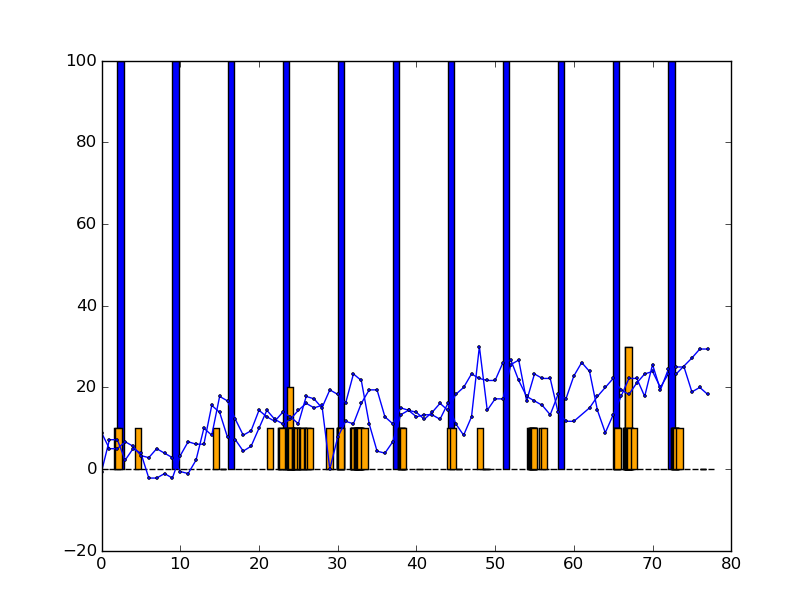
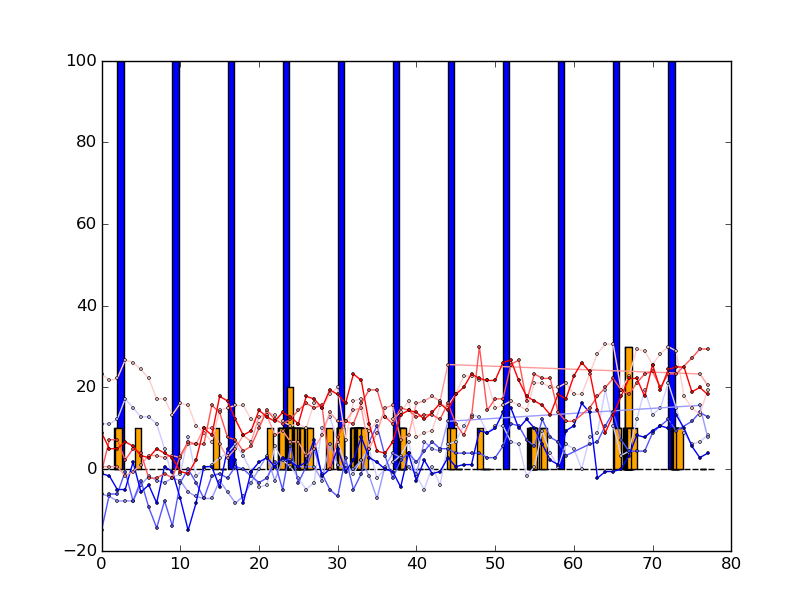
added support for daily Min temp; added min-temp line plots

Changed region(s): [[0.1232, 0.5588, 0.8929, 0.8693], [0.1232, 0.5899, 0.1847, 0.6209]]

diff --git a/rain_forcast.py b/rain_forcast.py
@@ -296,28 +296,51 @@ if __name__ == "__main__":
     ind = np.arange(len(x_dates)) #select N evenly spaced values
     add_bars( ind, saturdays_2016, outline=True, color='black')
 
-    list_tmax = [{'date_start': parse('2012-mar-17')
+    # plot lines for daily climate values
+    list_daily_lines = [{'date_start': parse('2012-mar-17')
                  ,'date_xend' : parse('2012-june-2')
-                 ,'str_datatype': 'TMAX_C'
+                 ,'str_datatype': 'TMIN_C'
                  ,'color'     : "#ccccff" #very faded blue
                  }
                 ,{'date_start': parse('2013-mar-17')
                  ,'date_xend' : parse('2013-june-2')
-                 ,'str_datatype': 'TMAX_C'
+                 ,'str_datatype': 'TMIN_C'
                  ,'color'     : "#9999ff" #faded blue
                  }
                 ,{'date_start': parse('2014-mar-17')
                  ,'date_xend' : parse('2014-june-2')
-                 ,'str_datatype': 'TMAX_C'
+                 ,'str_datatype': 'TMIN_C'
                  ,'color'     : "#5555ff" #only slightly faded
                  }
                 ,{'date_start': parse('2015-mar-17')
                  ,'date_xend' : parse('2015-june-2')
-                 ,'str_datatype': 'TMAX_C'
+                 ,'str_datatype': 'TMIN_C'
                  ,'color'     : "#0000ff" #pure blue
                  }
                 ]
-    for dict_args in list_tmax:
+    # add line plots for TMAX
+    list_daily_lines.extend([{'date_start': parse('2012-mar-17')
+                 ,'date_xend' : parse('2012-june-2')
+                 ,'str_datatype': 'TMAX_C'
+                 ,'color'     : "#ffcccc" #very faded red
+                 }
+                ,{'date_start': parse('2013-mar-17')
+                 ,'date_xend' : parse('2013-june-2')
+                 ,'str_datatype': 'TMAX_C'
+                 ,'color'     : "#ff9999" #faded red
+                 }
+                ,{'date_start': parse('2014-mar-17')
+                 ,'date_xend' : parse('2014-june-2')
+                 ,'str_datatype': 'TMAX_C'
+                 ,'color'     : "#ff5555" #only slightly faded
+                 }
+                ,{'date_start': parse('2015-mar-17')
+                 ,'date_xend' : parse('2015-june-2')
+                 ,'str_datatype': 'TMAX_C'
+                 ,'color'     : "#ff0000" #pure red
+                 }
+                ])
+    for dict_args in list_daily_lines:
         add_daily_climate_line( **dict_args)
 
     list_2013_rain_dict = csv.DictReader(str_zip49437_15min_precip.splitlines())

diff --git a/daily_json_to_dict.py b/daily_json_to_dict.py
@@ -45,6 +45,10 @@ def get_daily_climate_list( list_daily_climate):
         if 'TMAX' in df_day.datatype.values:
             tmax_tenth_degC = df_day[ df_day.datatype == 'TMAX'].value
             dict_day['TMAX_C'] = int(tmax_tenth_degC) / 10
+        # extract TMIN
+        if 'TMIN' in df_day.datatype.values:
+            tmin_tenth_degC = df_day[ df_day.datatype == 'TMIN'].value
+            dict_day['TMIN_C'] = int(tmin_tenth_degC) / 10
         # extract snow depth in mm
         dict_day['SNWD_MM'] = 0
         if 'SNWD' in df_day.datatype.values:
